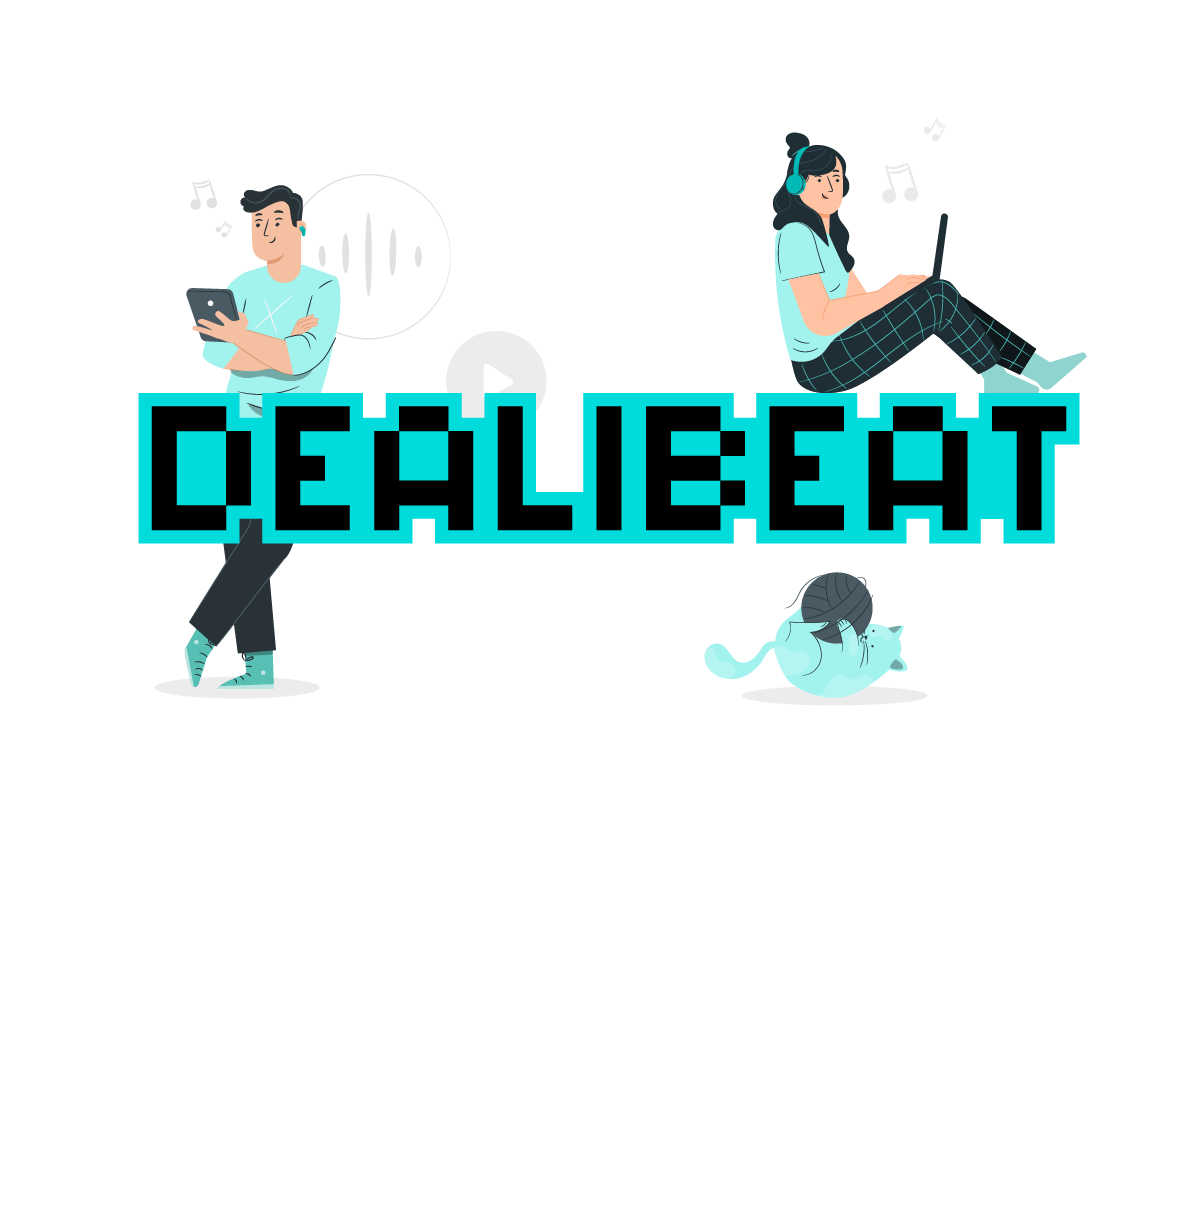
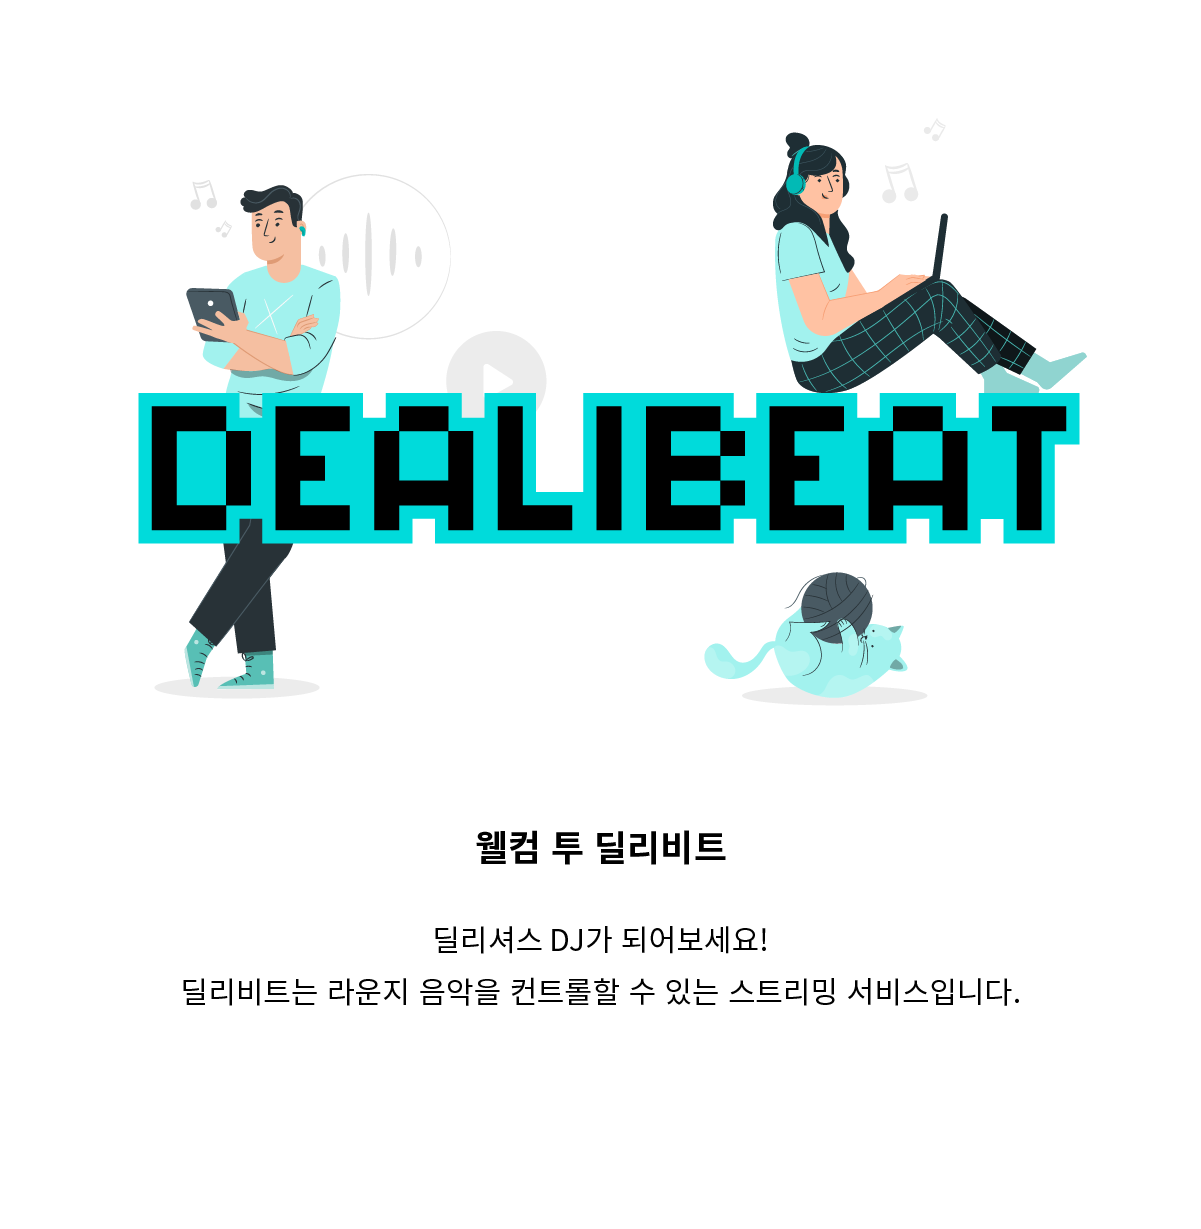
온보딩 준비

diff --git a/deali-music/src/components/common/OnBoard.vue b/deali-music/src/components/common/OnBoard.vue
@@ -1,48 +1,47 @@
 <template>
-    <div class="on-board">
+    <div class="on-board" v-if="value">
         <div class="on-board-container">
             <img :src="nowImage" class="board-img" />
-            <h3>{{ boardText[nowView].mainText }}</h3>
-            <pre>
-                {{ boardText[nowView].subText }}
-            </pre>
+            <div>
+                <button>이전</button>
+                <button @click="nowView++">다음</button>
+            </div>
         </div>
     </div>
 </template>
 
 <script>
-import BoardImg0 from '@/assets/images/Dealibeat_1(x2).png';
-import BoardImg1 from '@/assets/images/Dealibeat_2(x2).png';
+import BoardImg1 from '@/assets/images/Dealibeat_1(x2).png';
+import BoardImg2 from '@/assets/images/Dealibeat_2(x2).png';
+import BoardImg3 from '@/assets/images/Dealibeat_3(x2).png';
+import BoardImg4 from '@/assets/images/Dealibeat_4(x2).png';
 import { ref, computed } from '@vue/composition-api';
 
 
-const boardText = [
-    {
-        mainText: '웰컴 투 딜리비트',
-        subText: '딜리셔스 DJ가 되어보세요!<br />딜리비트는 라운지 음악을 컨트롤할 수 있는 스트리밍 서비스입니다.',
-    },
-    {
-        mainText: '로그인하기',
-        subText: '딜리셔스 이메일 계정으로 로그인해 주세요.<br />하단에 재생목록을 관리하는 컨트롤 바가 나타납니다.',    
-    },
-    {   
-        mainText: '음악 검색하기',
-        subText: '상단 검색창에 듣고 싶은 음악을 검색해 주세요. <br />듣고 싶은 음악을 ‘라운지’ 플레이리스트에 넣으면 재생됩니다.',    
-    },
-];
 
 export default {
     name: 'OnBoard',
-    setup() {
-        const nowView = ref(0);
+    props: {
+        value: {
+            type: Boolean,
+            default: false,
+        },
+    },
+    setup(_, { root, emit }) {
+        const nowView = ref(1);
         const nowImage = computed(() => {
-            if (nowView.value === 0 ) return BoardImg0;
             if (nowView.value === 1 ) return BoardImg1;
+            if (nowView.value === 2 ) return BoardImg2;
+            if (nowView.value === 3 ) return BoardImg3;
+            if (nowView.value === 4 ) return BoardImg4;
+            if (nowView.value > 4) {
+                root.$cookies.set('board', true, '1y');
+                emit('input', false);
+                return;
+            }
         });
-        
         return {
             nowImage,
-            boardText,
             nowView,
         };
     },

diff --git a/deali-music/src/views/Home.vue b/deali-music/src/views/Home.vue
@@ -20,7 +20,7 @@
                 </article>
             </div>
         </section>
-        <on-board v-if="true"/>
+        <on-board v-model="checkBoard"/>
     </div>
 </template>
 
@@ -32,8 +32,14 @@ import { openGroup } from "@/composible/openGroup";
 import openGroupList from "@/components/list/OpenGroupList";
 import OnBoard from '@/components/common/OnBoard.vue';
 
-const checkOnBoard = () => {
-    console.log('hi');
+const checkOnBoard = (root) => {
+    const checkBoard = ref(false);
+    const isRead = root.$cookies.get('board');
+    if (!isRead)  checkBoard.value = true;
+
+    return {
+        checkBoard,
+    };
 };
 
 const myGroup = userInfo => {
@@ -97,7 +103,7 @@ export default {
             userInfo,
             page,
             ...openGroup(perPage, page),
-            checkOnBoard,
+            ...checkOnBoard(root),
         };
     }
 };

diff --git a/deali-music/src/main.js b/deali-music/src/main.js
@@ -4,12 +4,14 @@ import App from './App.vue'
 import router from './router'
 import store from './store'
 import filters from './filters';
+import VueCookies from 'vue-cookies';
 import VueCompositionApi from '@vue/composition-api';
 
 Vue.use(VueCompositionApi);
 Vue.use(VueMeta);
 Vue.config.productionTip = false;
 Vue.config.devtools = true;
+Vue.use(VueCookies);
 
 // 필터 등록
 Object.entries(filters).map((item) => {
